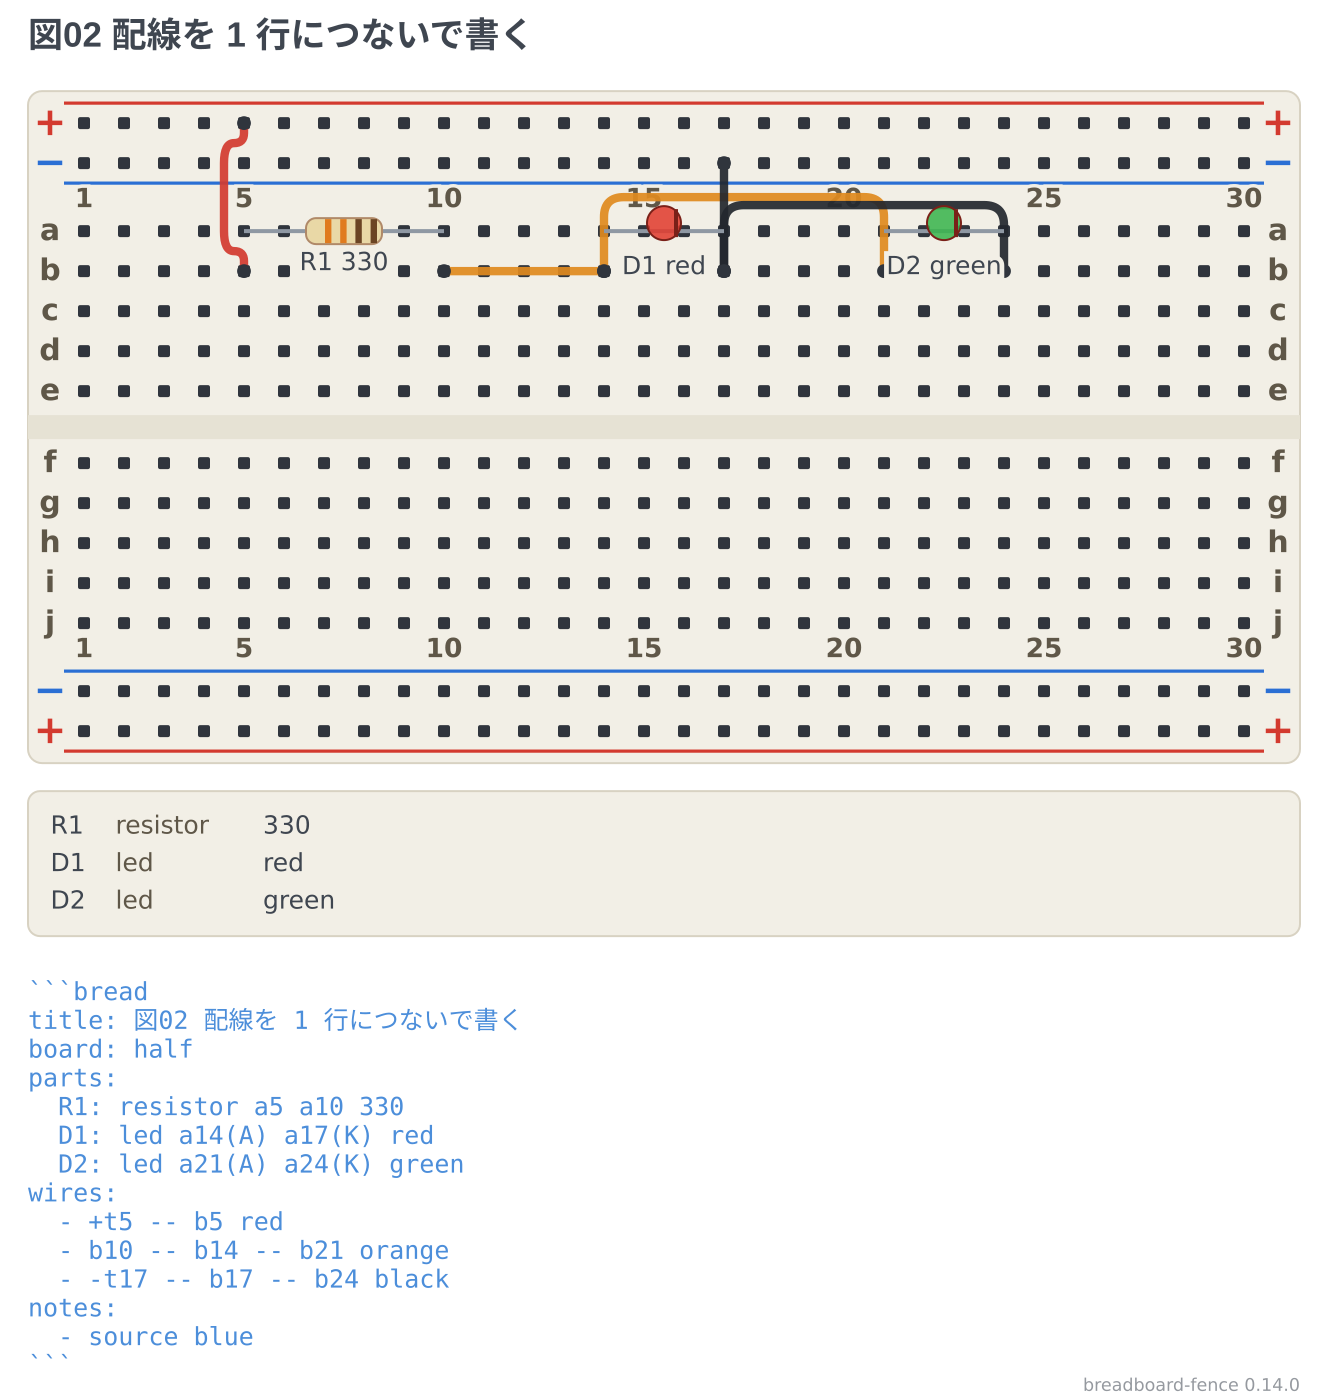
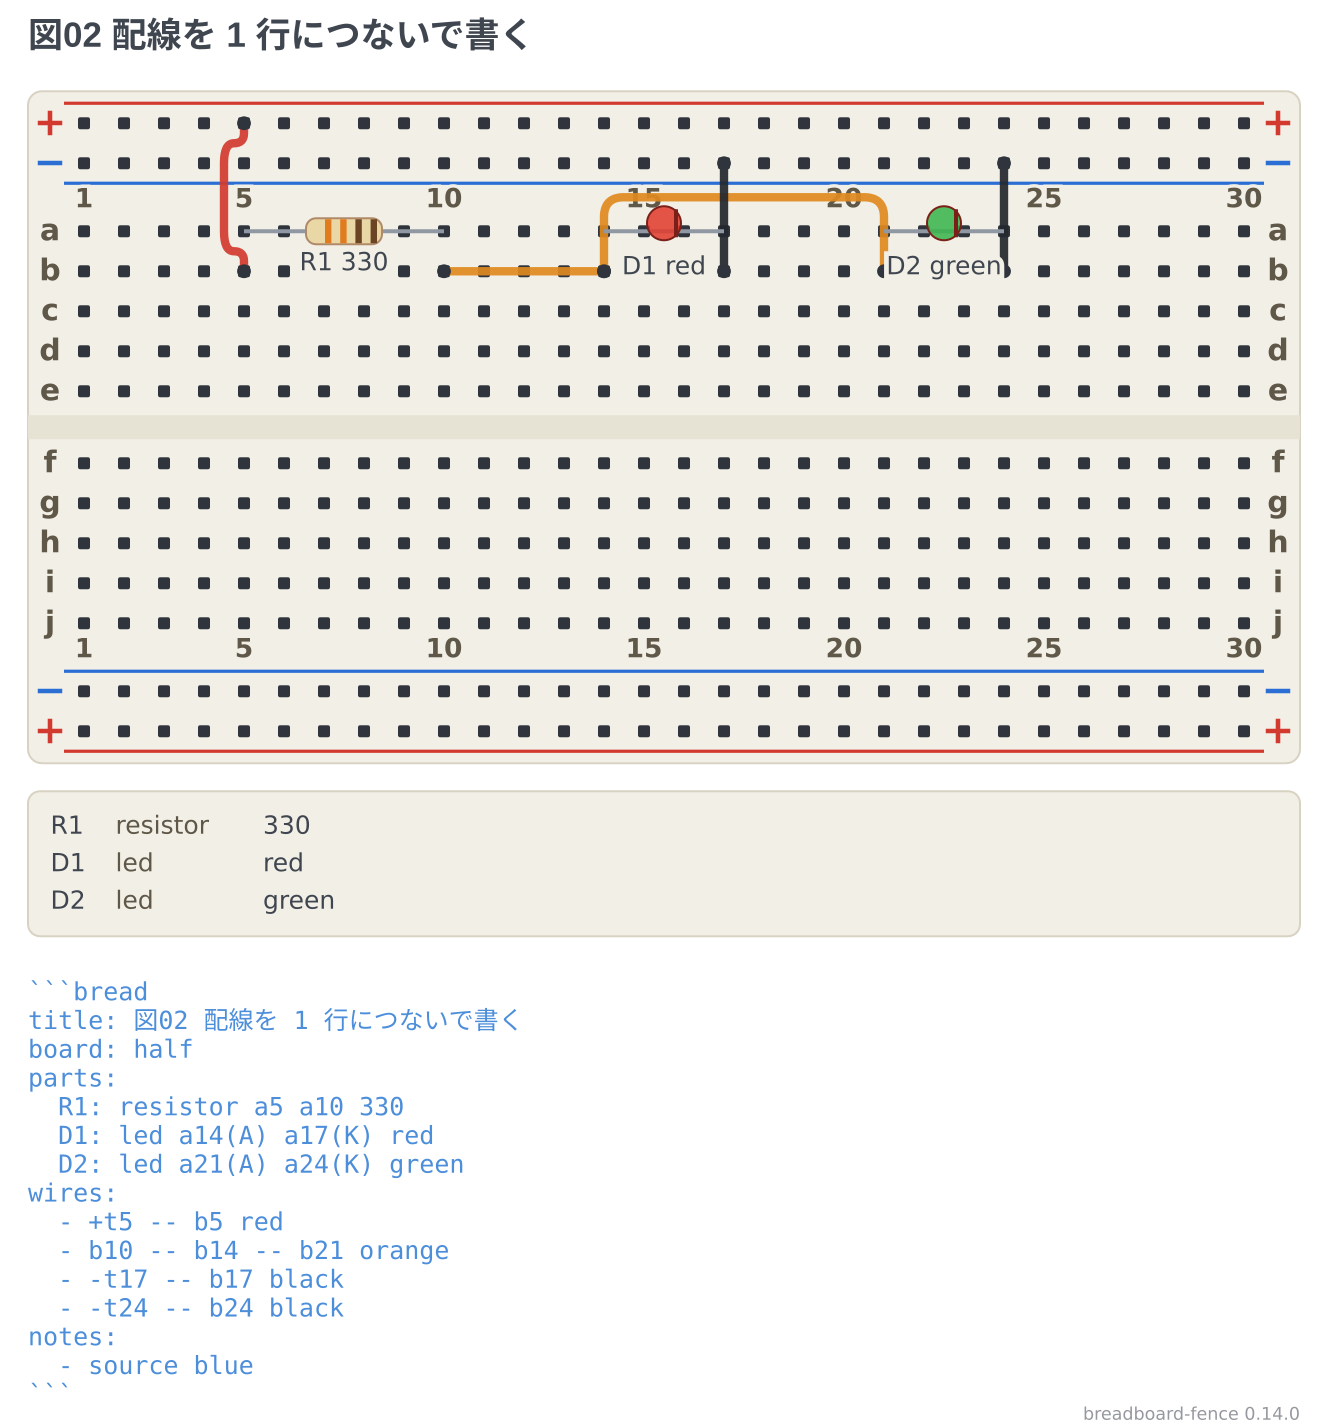
docs(breadboard-fence): 例 2 つの GND の線をレールから縦 1 本にする
- 13-points 図02: 1 行につなぐのは信号の線 (オレンジ) だけにし、GND は 2 本の縦の線に
- 10-bh-ad2: a30 から -t29 への斜めの線を -t30 への縦 1 本に。取り合う
  レールどうしの線は左端 (1 列) に移した

🤖 Generated with [Claude Code](https://claude.com/claude-code)

Changed region(s): [[0.0, 0.0615, 0.988, 0.9528], [0.0926, 0.0, 0.1544, 0.0307], [0.3396, 0.0, 0.3705, 0.0307]]

diff --git a/packages/breadboard-fence/examples/10-bh-ad2.md b/packages/breadboard-fence/examples/10-bh-ad2.md
@@ -32,7 +32,7 @@ wires:
   - AD2.V+ -- +t2 red
   - AD2.V- -- +b2 orange
   - AD2.GND -- -b4 black
-  - -b30 -- -t30 black
+  - -b1 -- -t1 black
   - a5 -- +t5 red
   - j8 -- +b8 orange
   # バッファ: 2 回路をフォロワにして 1Ω 2 本で並列合流
@@ -50,7 +50,7 @@ wires:
   # 2 次側: N2 → RC 積分 → GND。C の電圧を CH2 で見る
   - T1.N2a -- a23 green
   - T1.N2b -- -t26 black
-  - a30 -- -t29 black
+  - a30 -- -t30 black
   - AD2.2+ -- e27 blue
   - AD2.2- -- -b26 blue
 notes:

diff --git a/packages/breadboard-fence/examples/13-points.md b/packages/breadboard-fence/examples/13-points.md
@@ -54,7 +54,8 @@ parts:
 wires:
   - +t5 -- b5 red
   - b10 -- b14 -- b21 orange
-  - -t17 -- b17 -- b24 black
+  - -t17 -- b17 black
+  - -t24 -- b24 black
 notes:
   - source blue
 ```
